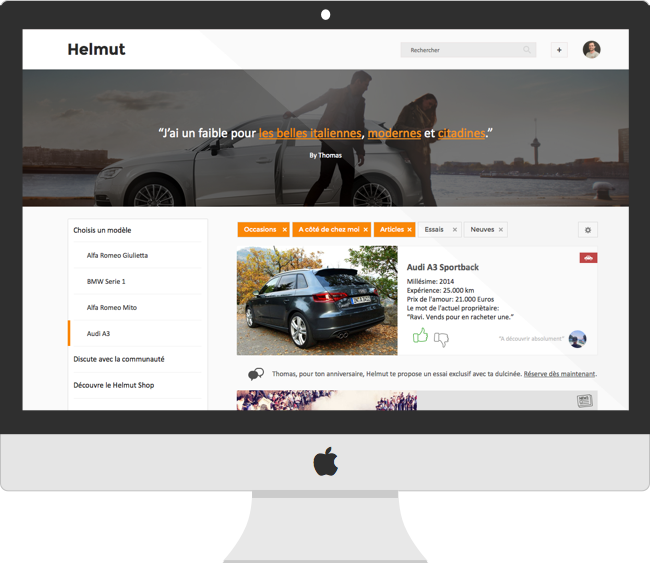
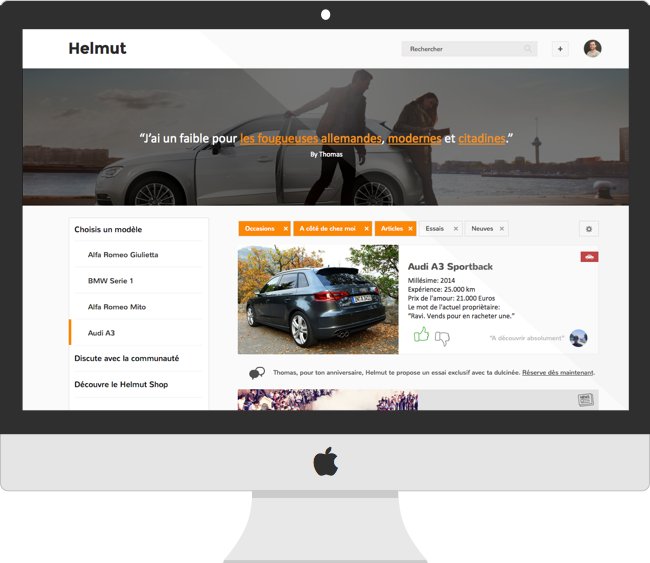
[Version 27.02] Ready for prod

diff --git a/js/scripts.js b/js/scripts.js
@@ -110,11 +110,11 @@ $('.shuffle-btn').click(function(){
 if (count>4) { count=0; };
 
 sentence=[
-			["la belle italienne","classique","sportive"],
-			["la fougeuse allemande","moderne","citadine"],
-			["la fougueuse allemande","familiale","puissante"],
+			["les belles italiennes","classiques","sportives"],
+			["les fougeuses allemandes","modernes","citadines"],
+			["les fougueuses allemandes","familiales","puissantes"],
 			["la classe anglaise","moderne","baroudeuse"],
-			["style français","classique","confortable"]
+			["le style français","classique","confortable"]
 		];
 
 	//var rands=Math.floor((Math.random() * 5) + 1);

diff --git a/index.html b/index.html
@@ -128,7 +128,7 @@
 				<div class="row">
 					<div class="col-md-12 text-center">
 						<div class="sentence">
-							<span>J'ai un faible pour <span class="ng-binding">la belle italienne</span>, <span class="ng-binding">moderne</span> et <span class="ng-binding">citadine</span>.</span>
+							<span>J'ai un faible pour <span class="ng-binding">les fougueuses allemandes</span>, <span class="ng-binding">modernes</span> et <span class="ng-binding">citadines</span>.</span>
 						</div>
 					</div>	
 					<div class="col-md-12 text-center">	
